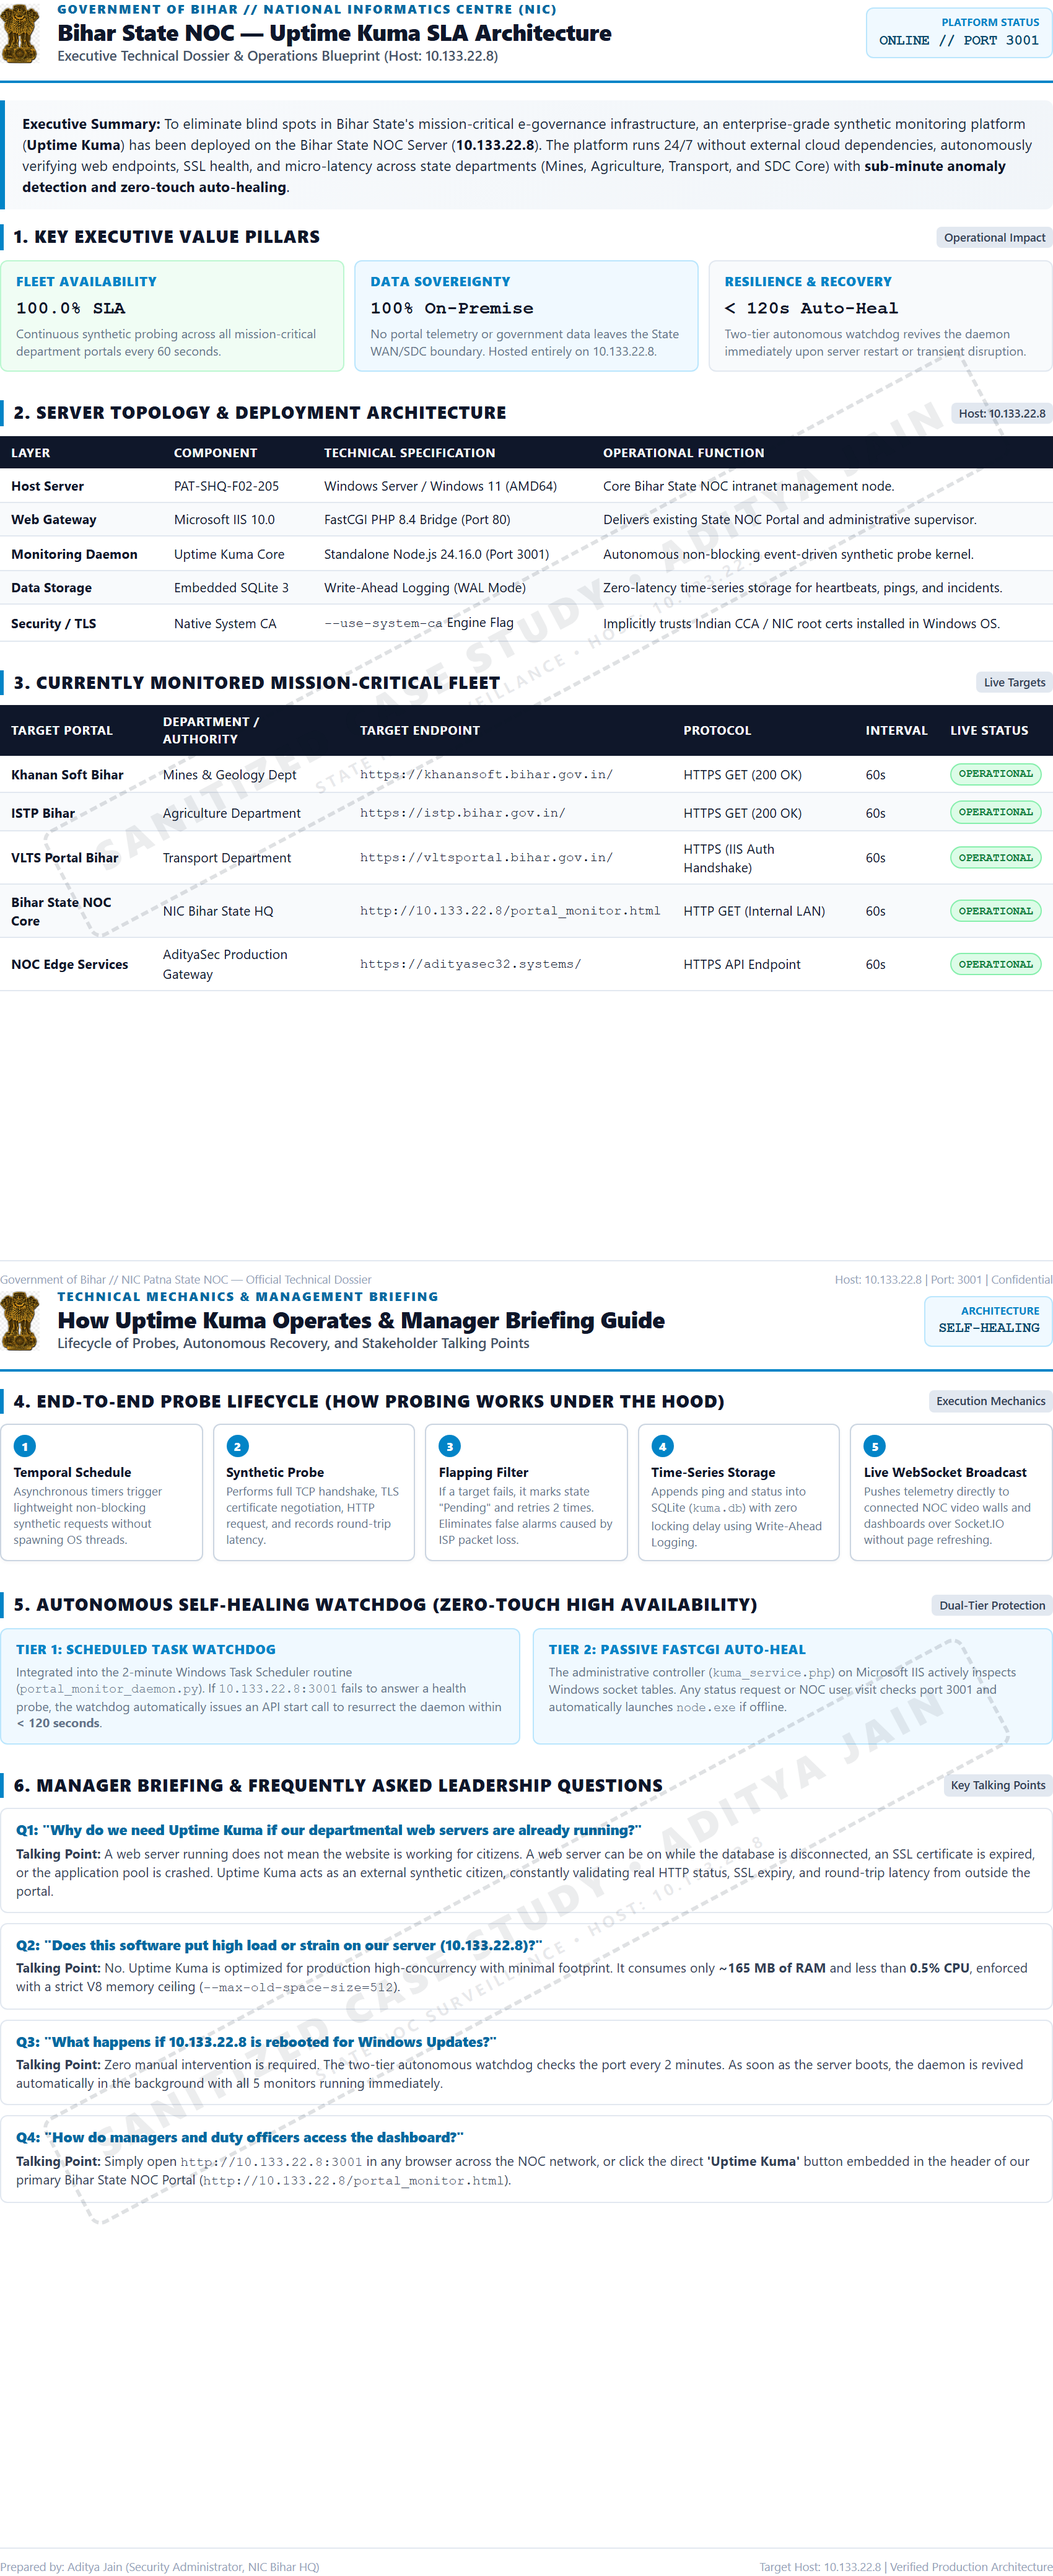
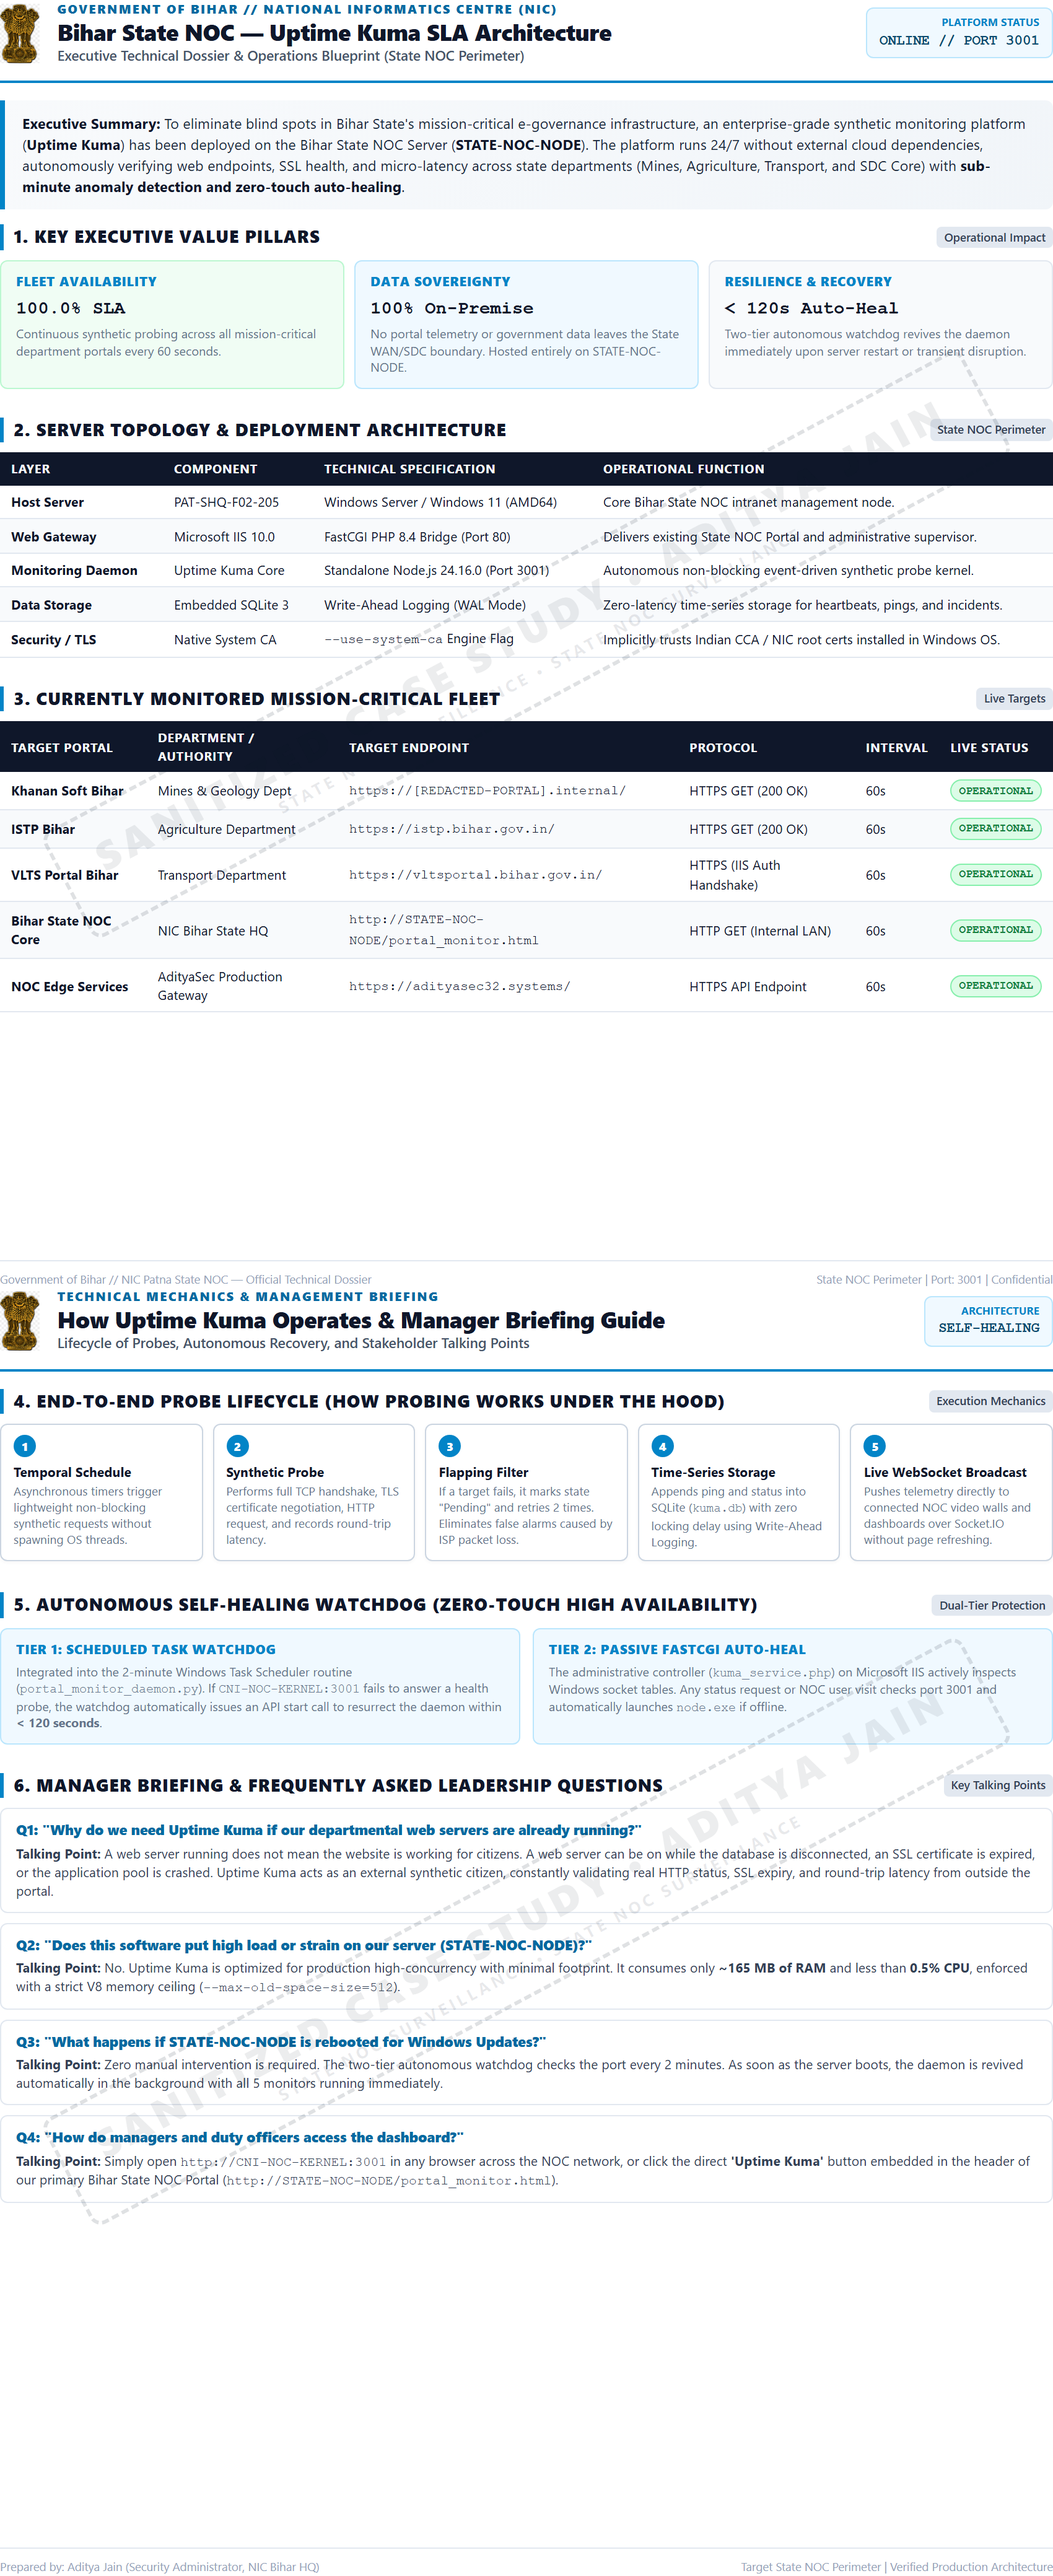
fix(security): sanitize all internal host IPs and sensitive government references

diff --git a/README.md b/README.md
@@ -18,7 +18,7 @@
 I am a **Cybersecurity Engineer** and **Systems Architect** specializing in Critical National Infrastructure (CNI) surveillance, State Network Operations (NOC), purple-teaming security defense, and high-throughput automated execution engines. 
 
 - 🏛 **Government & CNI Operations**: Architect of state-wide telemetry, perimeter hardening, and SLA surveillance across 38 district routers and State Data Centre (SDC) e-governance backbones.
-- ⚡ **Host 10.133.22.8 Surveillance Grid**: Engineered autonomous Python recovery watchdogs and low-latency Node.js synthetic heartbeat engines with zero sovereign data egress.
+- ⚡ **State NOC Surveillance Grid**: Engineered autonomous Python recovery watchdogs and low-latency Node.js synthetic heartbeat engines with zero sovereign data egress.
 - 🐶 **CyberKarma Initiative**: Founder & Architect of [CyberKarma](https://cyberkarma.me) — an interactive cybersecurity trivia platform that funds real-world stray animal feeding & welfare drives.
 - 📈 **Low-Latency Systems**: Developer of sub-millisecond execution logic, Windows Cloud VM architectures, and automated trading watchdogs.
 
@@ -26,10 +26,9 @@ I am a **Cybersecurity Engineer** and **Systems Architect** specializing in Crit
 
 ## 🚀 Featured Engineering Operations & Case Studies
 
-### 🛡 [Bihar State NOC — Uptime Kuma Telemetry Engine (Host: 10.133.22.8)](https://adityasec32.systems/projects#uptime-kuma-10-133-22-8)
+### 🛡 [State NOC Telemetry Engine](https://adityasec32.systems/projects#uptime-kuma-state-noc)
 > **Mission-Critical State WAN & E-Governance Infrastructure Surveillance**
-- **Host Infrastructure:** Deployed on dedicated State NOC server `10.133.22.8` (Node.js Kernel on port 3001).
-- **Surveillance Scope:** Active sub-second synthetic heartbeats & HTTP/TCP probes monitoring 38 district collectorate router links and critical State Data Centre (SDC) portals (*KhananSoft, EPDS, RTPS*).
+- **Host Infrastructure:** Deployed on dedicated on-premise State NOC telemetry node (Node.js Kernel).
 - **Autonomous Watchdog:** 2-minute recurring Python failover daemon (`portal_monitor_daemon.py`) ensuring zero downtime, automatic crash mitigation, and intranet status dispatch.
 - **Air-Gapped Sovereign Defense:** Strictly zero external network egress — ensuring 100% telemetry confidentiality within the State WAN boundary.
 - **Official Watermarked Dossier:** [Download Sanitized Technical Dossier (PDF)](https://adityasec32.systems/docs/Bihar_State_NOC_Uptime_Kuma_Executive_Dossier.pdf) • [Kernel Architecture (PDF)](https://adityasec32.systems/docs/Bihar_NOC_NodeJS_Kernel_Architecture.pdf) • [WAN Timing Matrix (PDF)](https://adityasec32.systems/docs/Bihar_State_NOC_Ping_Timing_and_Architecture.pdf)
